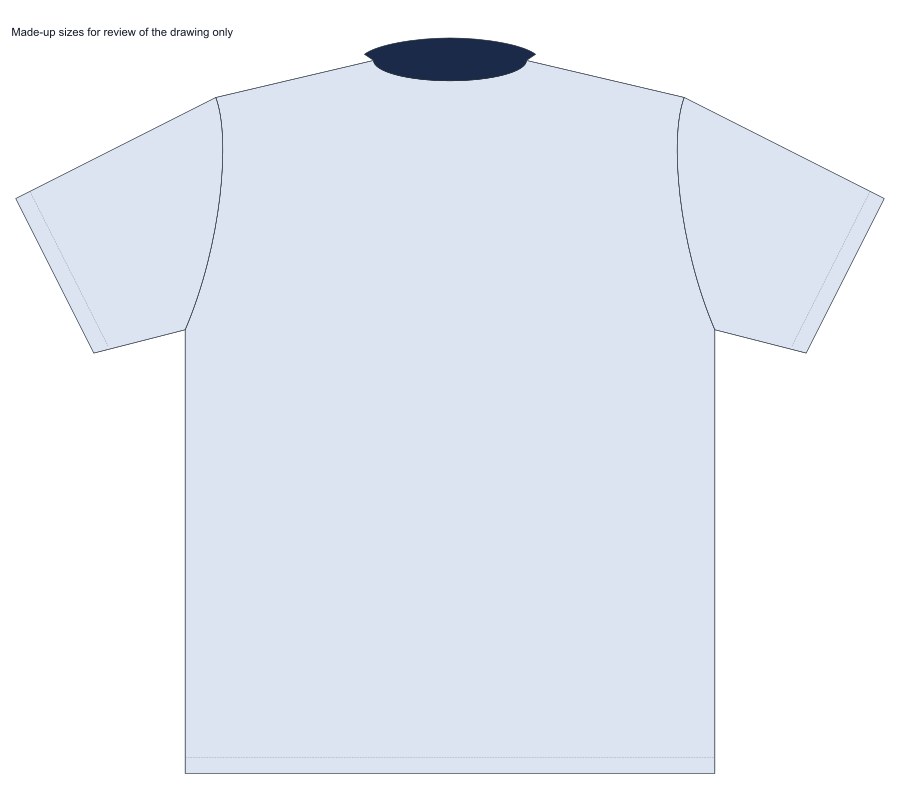
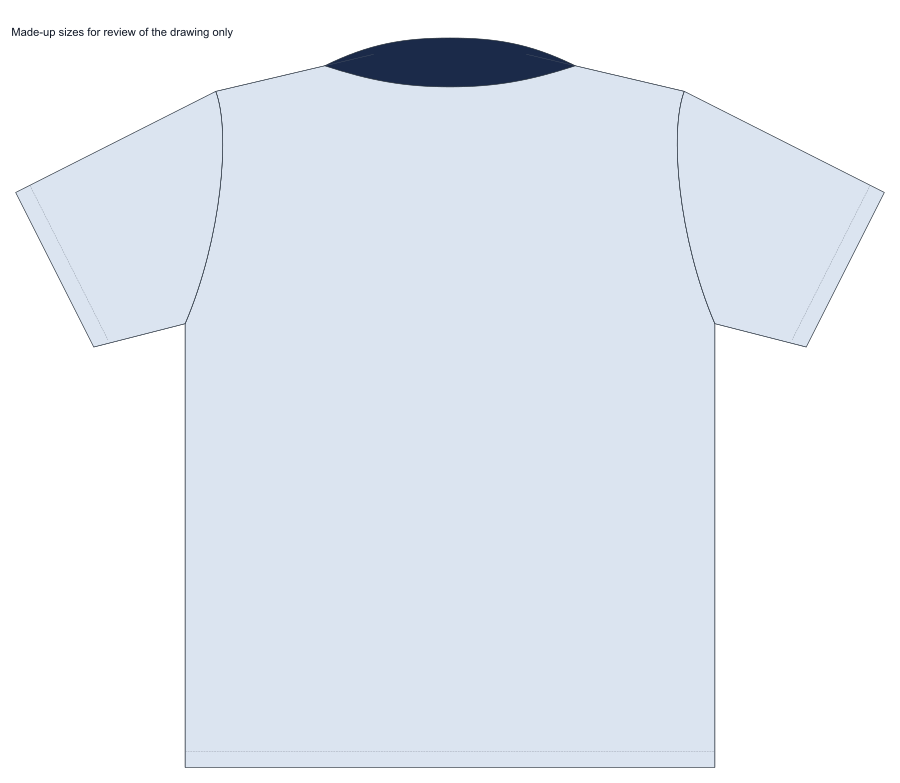
fix: draw the polo collar lying flat instead of like a hood
The back of the collar now sits a little above the shoulder line, the
inside of the neck shows only below the back neck seam, the collar points
spread apart over the placket, and from the back the fall of the collar
covers the neck seam and runs out to each shoulder. Snapshots and the
owner review drawings are updated on purpose.

diff --git a/apps/web/lib/flat/templates/polo-collar.ts b/apps/web/lib/flat/templates/polo-collar.ts
@@ -3,23 +3,35 @@ import type { Point } from "../model";
 import { bothSides, type Frame } from "./pieces";
 
 const KAPPA = 0.5522847498;
-/** Shares of the collar height, and of the chest width, for the parts of a polo collar. */
+/**
+ * Shares of the collar height, and of the chest width, for the parts of a polo collar. The
+ * collar lies flat: from the front, the leaves spread over the shoulders and the back of the
+ * collar is a band behind the neck whose top edge, the fold, runs almost level a little above
+ * the shoulder line. It never rises round the head.
+ */
 export const POLO_TIP_DROP = 0.5;
-const POLO_REACH = 0.9;
-const POLO_STAND_INNER = 0.42;
-const POLO_STAND_OUTER = 0.8;
+const POLO_REACH = 0.8;
+/** How far the fold at the top of the collar sits above the back neck seam, at the centre back. */
+const POLO_FOLD_RISE = 0.6;
+/** How far the fall of the collar hangs below the back neck seam, seen from the back. */
+const POLO_FALL = 0.2;
 const POLO_GAP = 0.008;
-const FOLD_BOW = 0.06;
+/** How far each collar point sits out from the centre front, so the two points spread apart over the placket. */
+const POLO_TIP_SPREAD = 0.065;
+const FOLD_BOW = 0.14;
 const ROLL_SHARE = 0.4;
-const BACK_END_RISE = 0.1;
-const BACK_END_FLARE = 0.15;
-const BACK_TOP = 0.7;
 
-/** The height of the inside edge of the collar stand at the back, above the shoulder line (a negative number). */
-export const poloStandInnerTop = (frame: Frame): number => -POLO_STAND_INNER * frame.collarHeight;
+/** The foot of the collar stand at the centre back: the back neck seam, seen from the front through the opening. */
+export const poloStandFoot = (frame: Frame): number => frame.backDrop;
+
+/** The fold at the top of the collar at the centre back (a negative number is above the shoulder line). */
+const foldTop = (frame: Frame): number => frame.backDrop - POLO_FOLD_RISE * frame.collarHeight;
 
 /** How far the two collar leaves stand apart at the centre front. */
 const gapOf = (frame: Frame): number => POLO_GAP * frame.basis.chest;
+
+/** Where the point of the right leaf is: below the neckline and a little out from the centre front. */
+const tipOf = (frame: Frame): Point => pt(POLO_TIP_SPREAD * frame.basis.chest, frame.drop + poloTipDepth(frame));
 
 /** How far below the neckline the tips of the leaves hang. */
 export const poloTipDepth = (frame: Frame): number => POLO_TIP_DROP * frame.collarHeight;
@@ -53,26 +65,27 @@ export function poloFrontChain(frame: Frame): Chain {
   return joinChains(inner, reverseChain(bothSides(outerRight)));
 }
 
-/** The inner edge of the collar on the right: the neck seam down the front, and the inside of the stand at the back. */
+/** The inner edge of the collar on the right: the neck seam down the front, and the foot of the stand at the back neck seam. */
 export function poloSeamRight(frame: Frame): Chain {
   const a = frame.basis.neckHalf;
   const b = frame.drop;
   const gap = gapOf(frame);
-  const innerTop = poloStandInnerTop(frame);
+  const foot = poloStandFoot(frame);
   return chain(
     pt(gap, b),
     curveTo(pt(gap + (a - gap) * KAPPA, b), pt(a, b * KAPPA), pt(a, 0)),
-    curveTo(pt(a, innerTop * KAPPA), pt(a * KAPPA, innerTop), pt(0, innerTop)),
+    curveTo(pt(a, foot * KAPPA), pt(a * KAPPA, foot), pt(0, foot)),
   );
 }
 
 /** The points and the curve behind the neck that shape the outside of a leaf on the right. */
 export function poloFrontEdges(frame: Frame): { tip: Point; corner: Point; behind: Piece } {
   const a = frame.basis.neckHalf;
-  const tip = pt(gapOf(frame), frame.drop + poloTipDepth(frame));
+  const tip = tipOf(frame);
   const corner = cornerOf(frame);
-  const outerTop = -POLO_STAND_OUTER * frame.collarHeight;
-  return { tip, corner, behind: curveTo(pt(corner.x * 0.85, corner.y - (corner.y - outerTop) * 0.55), pt(a * 0.7, outerTop), pt(0, outerTop)) };
+  const top = foldTop(frame);
+  // The fold rises from the shoulder close to the neck, then runs nearly level across the back.
+  return { tip, corner, behind: curveTo(pt(a * 1.05, corner.y + (top - corner.y) * 0.8), pt(a * 0.6, top), pt(0, top)) };
 }
 
 const lerp = (from: Point, to: Point, share: number): Point => pt(from.x + (to.x - from.x) * share, from.y + (to.y - from.y) * share);
@@ -86,7 +99,7 @@ export function poloFoldLine(frame: Frame): Chain {
   const a = frame.basis.neckHalf;
   const b = frame.drop;
   const gap = gapOf(frame);
-  const tip = pt(gap, b + poloTipDepth(frame));
+  const tip = tipOf(frame);
   const corner = cornerOf(frame);
   const edge = foldEdge(tip, corner);
   const seamStart = pt(gap, b);
@@ -103,19 +116,23 @@ export function poloFoldLine(frame: Frame): Chain {
 }
 
 /**
- * The back of a polo collar: a band that follows the back neckline, arching up behind the
- * neck, with its ends flaring out over the shoulder.
+ * The back of a polo collar, seen from behind: the fall of the collar, folded down over the
+ * back neck seam. Its top edge is the fold and its lower edge hangs a little below the seam.
+ * Both run out to the corner on each shoulder where the collar turns to the front, as the
+ * front view's leaves do.
  */
 export function poloBackChain(frame: Frame): Chain {
   const a = frame.basis.neckHalf;
-  const bottom = bothSides(chain(pt(a, 0), curveTo(pt(a, frame.drop * KAPPA), pt(a * KAPPA, frame.drop), pt(0, frame.drop))));
+  const corner = cornerOf(frame);
+  const fall = frame.backDrop + POLO_FALL * frame.collarHeight;
+  const bottom = bothSides(chain(corner, curveTo(pt(a * 1.05, corner.y + (fall - corner.y) * 0.7), pt(a * 0.6, fall), pt(0, fall))));
   return joinChains(bottom, reverseChain(bothSides(poloBackTop(frame))));
 }
 
-/** The top edge of the back of the collar on the right: from its end over the shoulder up to the middle. */
+/** The top edge of the back of the collar on the right, the fold: from the corner on the shoulder up to the middle. */
 export function poloBackTop(frame: Frame): Chain {
-  const h = frame.collarHeight;
-  const end = pt(frame.basis.neckHalf + BACK_END_FLARE * h, -BACK_END_RISE * h);
-  const middle = frame.drop - BACK_TOP * h;
-  return chain(end, curveTo(pt(end.x * 0.85, end.y + (middle - end.y) * 0.6), pt(end.x * 0.4, middle), pt(0, middle)));
+  const a = frame.basis.neckHalf;
+  const corner = cornerOf(frame);
+  const top = foldTop(frame);
+  return chain(corner, curveTo(pt(a * 1.05, corner.y + (top - corner.y) * 0.8), pt(a * 0.6, top), pt(0, top)));
 }

diff --git a/apps/web/lib/flat/build.shapes.test.ts b/apps/web/lib/flat/build.shapes.test.ts
@@ -67,21 +67,23 @@ describe("a polo, seen from the front", () => {
     expect(ratio).toBeLessThan(0.38);
   });
 
-  it("has two collar leaves whose points lie below the neckline, one each side of the centre line", () => {
+  it("has two collar leaves whose points lie below the neckline, one each side of the centre line, spread apart over the placket", () => {
     const lowest = pointsOf(collar).reduce((best, point) => (point.y > best.y ? point : best));
     expect(lowest.y).toBeGreaterThan(neckBottom.y + 0.3 * height);
     const right = pointsOf(collar).filter((point) => point.x > 0).reduce((best, point) => (point.y > best.y ? point : best));
     const left = pointsOf(collar).filter((point) => point.x < 0).reduce((best, point) => (point.y > best.y ? point : best));
     expect(right.y).toBeCloseTo(left.y, 0);
     expect(right.x).toBeCloseTo(-left.x, 0);
-    expect(Math.abs(right.x)).toBeLessThan(0.05 * chest);
+    expect(Math.abs(right.x)).toBeGreaterThan((values["placket-width"] as number) / 2);
+    expect(Math.abs(right.x)).toBeLessThan(0.1 * chest);
   });
 
   it("comes to a point at each tip and leaves a gap between the leaves", () => {
     const y = neckBottom.y + 0.25 * height;
     const across = crossings(collar, y);
     expect(across).toHaveLength(4);
-    expect((across[2] as number) - (across[1] as number)).toBeLessThan(0.05 * chest);
+    expect((across[2] as number) - (across[1] as number)).toBeGreaterThan(0);
+    expect((across[2] as number) - (across[1] as number)).toBeLessThan(0.1 * chest);
     // Pointed: a short way above the tip the leaf is much wider than it is close to the tip.
     const widthAt = (y: number) => {
       const xs = crossings(collar, y);
@@ -90,9 +92,13 @@ describe("a polo, seen from the front", () => {
     expect(widthAt(neckBottom.y + 0.1 * height)).toBeGreaterThan(2.5 * widthAt(neckBottom.y + 0.45 * height));
   });
 
-  it("has a collar stand that rises behind the neck, higher than the shoulder line", () => {
-    expect(Math.min(...pointsOf(collar).map((point) => point.y))).toBeLessThan(-0.4 * height);
-    expect(Math.min(...pointsOf(collar).map((point) => point.y))).toBeGreaterThanOrEqual(-height);
+  it("lies flat: the back of the collar sits a little above the shoulder line and does not rise round the head like a hood", () => {
+    const highest = Math.min(...pointsOf(collar).map((point) => point.y));
+    expect(highest).toBeLessThan(-0.15 * height);
+    expect(highest).toBeGreaterThan(-0.5 * height);
+    // What shows through the opening is the inside of the back below the back neck seam, never above the shoulder line.
+    const inside = paths(model, "panels").find((path) => path.name === "Inside of the neck") as FlatPath;
+    expect(Math.min(...pointsOf(inside).map((point) => point.y))).toBeGreaterThanOrEqual(-0.5);
   });
 
   it("has a visible fold line on each leaf", () => {
@@ -129,14 +135,19 @@ describe("a polo, seen from the back", () => {
   const { model, values } = drawn("polo", {}, "back");
   const collar = panel(model, "collar");
 
-  it("has a band that follows the back neckline, arching up behind the neck", () => {
+  it("is the fall of the collar: folded at the top, hanging just over the back neck seam, and out to each shoulder", () => {
     const neckBottom = landmark(model, "neck-bottom");
+    const height = values["collar-height"] as number;
     const top = pointsOf(collar).reduce((best, point) => (point.y < best.y ? point : best));
     expect(Math.abs(top.x)).toBeLessThan(0.05 * (values["chest-width"] as number));
-    expect(top.y).toBeLessThan(neckBottom.y - 0.5 * (values["collar-height"] as number));
-    // Its lower edge is the back neckline: the bottom of the band is the bottom of the neckline.
+    expect(top.y).toBeLessThan(neckBottom.y - 0.5 * height);
+    expect(top.y).toBeGreaterThan(neckBottom.y - height);
+    // The fall covers the back neck seam, and hangs only a little below it.
     const lowest = pointsOf(collar).reduce((best, point) => (point.y > best.y ? point : best));
-    expect(lowest.y).toBeCloseTo(neckBottom.y, 0);
+    expect(lowest.y).toBeGreaterThan(neckBottom.y);
+    expect(lowest.y).toBeLessThan(neckBottom.y + 0.5 * height);
+    const widest = Math.max(...pointsOf(collar).map((point) => Math.abs(point.x)));
+    expect(widest).toBeGreaterThan((values["neck-width"] as number) / 2 + 0.5 * height);
   });
 
   it("is a curved band and not a rectangle: its top edge is higher in the middle than at the ends", () => {

diff --git a/apps/web/lib/flat/templates/inside-back.ts b/apps/web/lib/flat/templates/inside-back.ts
@@ -1,6 +1,6 @@
 import { chain, curveTo, joinChains, pt, quarterDown, reverseChain, type Chain } from "../chain";
 import { standTop } from "./collar";
-import { poloStandInnerTop } from "./polo-collar";
+import { poloStandFoot } from "./polo-collar";
 import { bothSides, isV, neckEndY, neckOpening, type Frame } from "./pieces";
 
 const KAPPA = 0.5522847498;
@@ -30,7 +30,7 @@ export function insideBackChain(frame: Frame): Chain | null {
   const y0 = neckEndY(frame);
   const front = collar === "polo-collar" ? chain(pt(a, 0), quarterDown(a, frame.drop)) : neckOpening(frame);
   const start = pt(a, y0);
-  const round = collar === "polo-collar" ? arc(pt(a, 0), poloStandInnerTop(frame)) : arc(start, frame.backDrop);
+  const round = collar === "polo-collar" ? arc(pt(a, 0), poloStandFoot(frame)) : arc(start, frame.backDrop);
   // Seen through a V, the back neckline is drawn as a shallow curve that stays above the V edges.
   const back = isV(frame) ? shallowArc(start, frame.backDrop) : round;
   return joinChains(bothSides(front), reverseChain(bothSides(back)));
